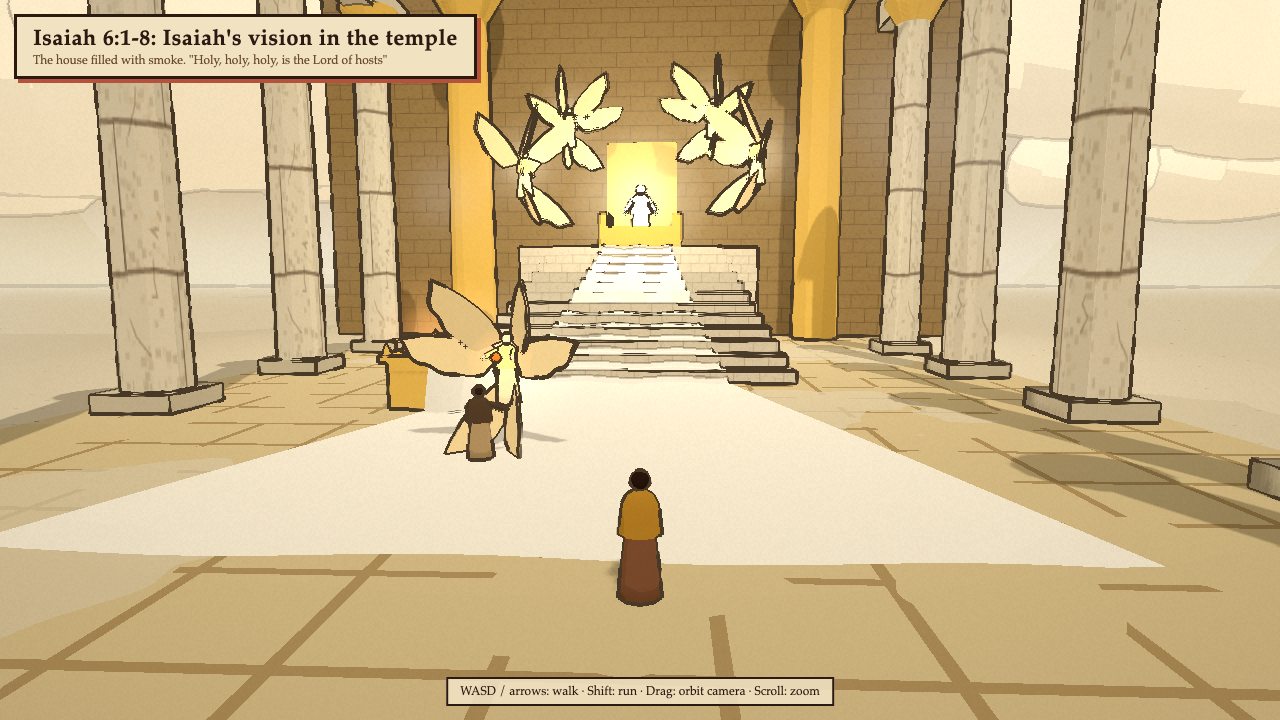
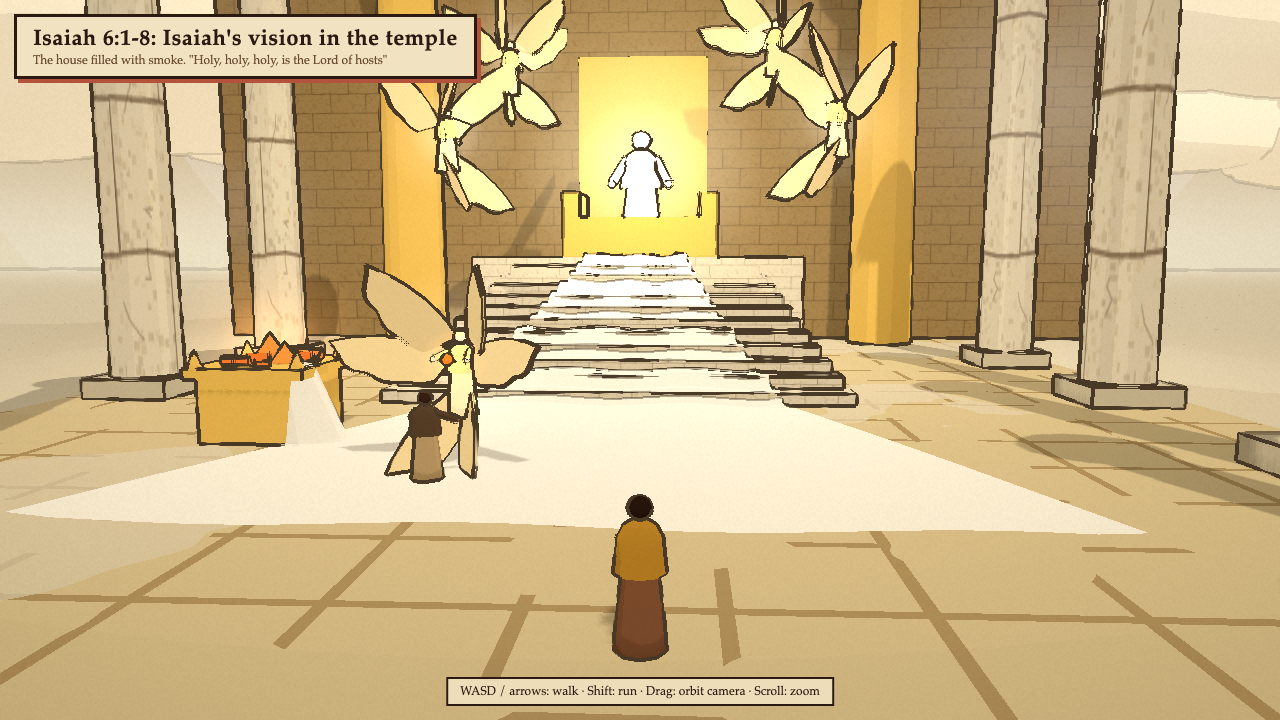
feat: polish toon scenes ot-38 to ot-44

diff --git a/styles/toon/scenes/ot-42.js b/styles/toon/scenes/ot-42.js
@@ -1,10 +1,10 @@
-// Jonah 3: Nineveh believes God. The people put on sackcloth, and the king sits in ashes before his palace.
+// Jonah 3: Nineveh believes God. The people put on sackcloth, and the king sits in ashes in the great square.
 // x is east, z is south. The palace stands at the north end of the great square, Jonah preaches on its west side.
 import * as THREE from 'three';
 import { Batch, DAY_STYLE, attach, ball, box, boxGeo, cityWall, cyl, frameAt, glow, house, makeRng, ox, palm, person, sheep } from './lib/ot-38-kit.js';
 
-const JONAH = [-9, 4];
-const KING = [0, -30.5];
+const JONAH = [-5, 3];
+const KING = [4, -9];
 const PALACE = [0, -48];
 const STONE = '#d2bc94';
 const SACK = '#5a4a3a';
@@ -98,11 +98,11 @@ function city(b, ctx) {
 
 function ashes(b, ctx) {
   const rng = makeRng(7);
-  const piles = [[KING[0] + 1.6, KING[1] + 0.8], [-3, 10], [10, -4], [16, 10], [-22, 14], [4, 16], [-4, -18], [20, -16]];
+  const piles = [[KING[0] + 1.6, KING[1] + 0.8], [-14, 9], [10, -4], [16, 10], [-22, 14], [12, 15], [-8, -16], [20, -16]];
   piles.forEach(([x, z], i) => {
     const y = ctx.terrainHeight(x, z);
-    b.add('#8a8580', ball(1.2, [x, y, z], [1.4, 0.35, 1.2], 9), { cast: false });
-    b.add('#6a6560', ball(0.6, [x + 0.3, y + 0.25, z], [1, 0.5, 1], 7), { cast: false });
+    b.add('#7a756f', ball(0.8, [x, y, z], [1.4, 0.3, 1.2], 9), { cast: false });
+    b.add('#5e5954', ball(0.45, [x + 0.3, y + 0.25, z], [1, 0.5, 1], 7), { cast: false });
     ctx.exclude({ kind: 'circle', x, z, r: 1.6 });
   });
   for (let i = 0; i < 260; i++) {
@@ -113,23 +113,29 @@ function ashes(b, ctx) {
 
 function people(b, ctx) {
   const [kx, kz] = KING;
-  const king = person(ctx, { pos: KING, face: [kx, kz + 10], kneel: true, scale: 1.05, colors: { robe: SACK, mantle: '#4a3e32', skin: '#a87650', hair: '#8a8580', sash: '#3e342a', arms: [0.3, 0.6] } });
+  const ky = ctx.terrainHeight(kx, kz);
+  b.add('#8a8580', ball(1.7, [kx, ky, kz], [1.3, 0.42, 1.3], 10), { cast: false });
+  const king = person(ctx, { pos: KING, y: ky + 0.55, face: [kx - 2, kz + 10], kneel: true, scale: 1.3, colors: { robe: SACK, mantle: '#4a3e32', skin: '#a87650', hair: '#8a8580', sash: '#3e342a', arms: [0.3, 0.6] } });
   king.rotation.x = 0.2;
-  // His robe laid aside and his crown set down beside him.
-  b.add('#6a2a6a', box(1.8, 0.1, 1.2, [kx - 2.2, ctx.terrainHeight(kx - 2.2, kz) + 0.05, kz + 0.3], [0, 0.4, 0]), { cast: false });
-  b.add('#e2b13c', box(0.9, 0.1, 0.3, [kx - 2.2, ctx.terrainHeight(kx - 2.2, kz) + 0.12, kz + 0.3], [0, 0.4, 0]), { emissive: '#4a3008' });
-  b.add('#e2b13c', cyl(0.18, 0.16, 0.3, [kx - 1.3, ctx.terrainHeight(kx - 1.3, kz) + 0.15, kz - 0.6], [0, 0, 0], 8), { emissive: '#4a3008' });
-  b.add('#8a8580', ball(1.4, [kx, ctx.terrainHeight(kx, kz), kz], [1.3, 0.2, 1.3], 10), { cast: false });
+  // The throne he arose from stands empty behind him, his robe and crown laid upon it.
+  const [tx, tz] = [kx + 0.4, kz - 2.6];
+  const ty = ctx.terrainHeight(tx, tz);
+  b.add('#e2b13c', box(1.6, 0.9, 1.3, [tx, ty + 0.45, tz]), { emissive: '#4a3008' });
+  b.add('#e2b13c', box(1.6, 2.4, 0.3, [tx, ty + 1.2, tz - 0.6]), { emissive: '#4a3008' });
+  b.add('#7a2a7a', box(1.7, 0.14, 1.4, [tx, ty + 0.96, tz + 0.05]));
+  b.add('#7a2a7a', box(1.7, 0.9, 0.12, [tx, ty + 0.5, tz + 0.72]));
+  b.add('#ffd25a', cyl(0.24, 0.2, 0.36, [tx + 0.3, ty + 1.2, tz], [0, 0, 0], 8), { emissive: '#6a4a10' });
+  ctx.addCollider({ x: tx, z: tz, hx: 0.9, hz: 0.8, rot: 0, top: ty + 2.4 });
   // Nobles kneeling about the king.
   [[-2.6, 1.6], [2.8, 1.4], [-4.2, -0.4], [4.4, -0.6]].forEach(([dx, dz], i) => person(ctx, { pos: [kx + dx, kz + dz], face: [kx, kz + 12], kneel: true, colors: { robe: i % 2 ? '#4a3e32' : SACK, mantle: '#3e342a', skin: '#9c6a45', hair: '#8a8580' } }));
 
   // Jonah on a step of stone, crying the word.
   const [jx, jz] = JONAH;
   const jy = ctx.terrainHeight(jx, jz);
-  b.add(STONE, boxGeo(3.4, 1.7, 3, [jx, jy + 0.6, jz], { uv: { su: 2 } }), { stone: true });
-  ctx.addCollider({ x: jx, z: jz, hx: 1.7, hz: 1.5, rot: 0, top: jy + 1.45, walkable: true });
+  b.add(STONE, boxGeo(3.4, 2.4, 3, [jx, jy + 0.95, jz], { uv: { su: 2 } }), { stone: true });
+  ctx.addCollider({ x: jx, z: jz, hx: 1.7, hz: 1.5, rot: 0, top: jy + 2.15, walkable: true });
   ctx.exclude({ kind: 'circle', x: jx, z: jz, r: 2.6 });
-  person(ctx, { pos: JONAH, y: jy + 1.45, face: [4, 14], scale: 1.08, colors: { robe: '#b5823a', mantle: '#5e4632', skin: '#a8724a', hair: '#2b1a12', sash: '#d9c7a3', arms: [0.5, 1.3] } });
+  person(ctx, { pos: JONAH, y: jy + 2.15, face: [4, 16], scale: 1.18, colors: { robe: '#b5823a', mantle: '#5e4632', skin: '#a8724a', hair: '#2b1a12', sash: '#d9c7a3', arms: [0.5, 1.3] } });
 
   // Beasts too are covered in sackcloth.
   const rng = makeRng(77);
@@ -191,13 +197,14 @@ export default {
     groups: [
       { center: JONAH, radius: [3, 15], count: 200, kneel: 0.65, children: 0.15, facingJitter: 0.5, lean: 0.3 },
       { shape: 'rect', center: [8, -2], size: [24, 40], count: 260, kneel: 0.7, children: 0.15, facingJitter: 1.2, lean: 0.35, facing: [0, -40] },
-      { shape: 'rect', center: [0, -24], size: [30, 8], count: 70, kneel: 0.8, facing: KING, facingJitter: 0.4, lean: 0.3 },
+      { shape: 'rect', center: [4, -19], size: [26, 8], count: 70, kneel: 0.8, facing: KING, facingJitter: 0.4, lean: 0.3 },
       { shape: 'rect', center: [-20, 18], size: [16, 16], count: 80, kneel: 0.5, children: 0.2, facingJitter: 1, lean: 0.2 },
     ],
   },
   player: {
-    start: [1, 17],
-    lookAt: [-5, -30],
+    start: [1, 6],
+    lookAt: [0, -12],
+    fov: 48,
     colors: { robe: '#b5823a', mantle: '#4f7f80', skin: '#a8724a', hair: '#2b1a12', sash: '#d9c7a3' },
   },
 };

diff --git a/styles/toon/scenes/ot-43.js b/styles/toon/scenes/ot-43.js
@@ -4,11 +4,11 @@ import * as THREE from 'three';
 import { Batch, DAY_STYLE, attach, boxGeo, box, cyl, flames, glow, makeRng, person } from './lib/ot-38-kit.js';
 import { makeFigure } from '../engine/people.js';
 
-const THRONE = [0, -32];
-const STEPS = { n: 12, rise: 0.5, run: 1.1, width: 14 };
+const THRONE = [0, -24];
+const STEPS = { n: 12, rise: 0.36, run: 0.95, width: 14 };
 const TOP = STEPS.n * STEPS.rise;
-const ALTAR = [-6, -11];
-const ISAIAH = [-2.6, -4];
+const ALTAR = [-8, -5];
+const ISAIAH = [-3, -1];
 const GOLD = '#e8c060';
 const GOLD_EM = '#6a4a10';
 const WHITE = '#fbf7ee';
@@ -27,10 +27,10 @@ function temple(b, ctx) {
   ctx.addCollider({ x: tx, z: tz - 1, hx: STEPS.width / 2, hz: 4, rot: 0, top: TOP, walkable: true });
 
   // The throne itself.
-  b.add(GOLD, box(4.6, 1.4, 3, [tx, TOP + 0.7, tz - 1.5]), { emissive: GOLD_EM });
-  b.add(GOLD, box(4.6, 7, 0.6, [tx, TOP + 3.5, tz - 3]), { emissive: GOLD_EM });
-  for (const s of [-1, 1]) b.add(GOLD, box(0.6, 2.2, 3, [tx + s * 2.3, TOP + 1.1, tz - 1.5]), { emissive: GOLD_EM });
-  ctx.addCollider({ x: tx, z: tz - 1.8, hx: 2.4, hz: 1.8, rot: 0, top: TOP + 6 });
+  b.add(GOLD, box(6.2, 1.8, 3.6, [tx, TOP + 0.9, tz - 1.6]), { emissive: GOLD_EM });
+  b.add(GOLD, box(6.2, 9.5, 0.7, [tx, TOP + 4.75, tz - 3.3]), { emissive: GOLD_EM });
+  for (const s of [-1, 1]) b.add(GOLD, box(0.8, 2.9, 3.6, [tx + s * 3.1, TOP + 1.45, tz - 1.6]), { emissive: GOLD_EM });
+  ctx.addCollider({ x: tx, z: tz - 1.8, hx: 3.2, hz: 2, rot: 0, top: TOP + 9 });
 
   // Great posts of the door and the colonnade of the house.
   const back = tz - 8;
@@ -87,11 +87,11 @@ function train(ctx) {
 function lord(ctx) {
   const [tx, tz] = THRONE;
   const fig = makeFigure({ robe: WHITE, mantle: '#f6f0e2', skin: WHITE, hair: WHITE, sash: '#f3e6c4', arms: [0.35, 0.7] }, ctx.kit, { glow: 0.85 });
-  fig.scale.set(2.4, 2.2, 2.4);
-  fig.position.set(tx, TOP + 0.3, tz - 1.2);
+  fig.scale.set(3.3, 3.1, 3.3);
+  fig.position.set(tx, TOP + 0.4, tz - 1.2);
   ctx.scene.add(fig);
-  glow(ctx, { pos: [tx, TOP + 3.2, tz - 0.5], size: 9, color: '#fff6dc', opacity: 0.55, pulse: 0.03 });
-  glow(ctx, { pos: [tx, TOP + 4, tz - 1], size: 24, color: '#ffe8b0', opacity: 0.22, pulse: 0.02 });
+  glow(ctx, { pos: [tx, TOP + 4.2, tz - 0.5], size: 11, color: '#fff6dc', opacity: 0.5, pulse: 0.03 });
+  glow(ctx, { pos: [tx, TOP + 5, tz - 1], size: 28, color: '#ffe8b0', opacity: 0.2, pulse: 0.02 });
   const l = new THREE.PointLight('#fff4dc', 25, 40, 1.2);
   l.position.set(tx, TOP + 5, tz + 4);
   ctx.scene.add(l);
@@ -172,10 +172,10 @@ function custom(ctx) {
   train(ctx);
   lord(ctx);
   const [tx, tz] = THRONE;
-  seraph(ctx, { pos: [tx - 7, TOP + 3.2, tz + 1], face: [tx + 2, tz + 6], scale: 1.6 });
-  seraph(ctx, { pos: [tx + 7, TOP + 3.6, tz + 1.5], face: [tx - 2, tz + 6], scale: 1.6 });
-  seraph(ctx, { pos: [tx - 4.5, TOP + 6.6, tz - 1], face: [tx + 1, tz + 8], scale: 1.4 });
-  seraph(ctx, { pos: [tx + 4.5, TOP + 7, tz - 0.5], face: [tx - 1, tz + 8], scale: 1.4 });
+  seraph(ctx, { pos: [tx - 8.5, TOP + 3.6, tz + 1], face: [tx + 2, tz + 6], scale: 1.6 });
+  seraph(ctx, { pos: [tx + 8.5, TOP + 4, tz + 1.5], face: [tx - 2, tz + 6], scale: 1.6 });
+  seraph(ctx, { pos: [tx - 6, TOP + 7.6, tz - 1], face: [tx + 1, tz + 8], scale: 1.4 });
+  seraph(ctx, { pos: [tx + 6, TOP + 8, tz - 0.5], face: [tx - 1, tz + 8], scale: 1.4 });
   seraph(ctx, { pos: [ISAIAH[0] + 0.3, 0.9, ISAIAH[1] - 1.6], face: [ISAIAH[0], ISAIAH[1]], scale: 1.05, coal: true });
   person(ctx, { pos: ISAIAH, face: [ISAIAH[0] + 0.3, ISAIAH[1] - 2], colors: { robe: '#c8a97a', mantle: '#5e4632', skin: '#a8724a', hair: '#3a2418', sash: '#8c3a3a', arms: [0.55, 1.1] } });
   haze(ctx);
@@ -197,8 +197,9 @@ export default {
   custom,
   clouds: { layers: [{ count: 40, distance: [260, 600], height: [30, 140], size: [40, 80], color: '#fbf6ea', shade: '#c8b89a', drift: 0.003 }] },
   player: {
-    start: [1.5, 3],
-    lookAt: [0, -32],
+    start: [1.5, 6],
+    lookAt: [0, -24],
+    fov: 46,
     colors: { robe: '#8c5a3c', mantle: '#c8912e', skin: '#a8724a', hair: '#2b1a12', sash: '#4f7f80' },
   },
 };

diff --git a/styles/toon/scenes/ot-40.js b/styles/toon/scenes/ot-40.js
@@ -5,8 +5,8 @@ import { Batch, DAY_STYLE, PALETTE, addSun, attach, ball, box, boxGeo, cyl, fram
 
 const PIT = { x0: -12, x1: 12, z0: -30, z1: -6 };
 const RIM = { x0: -22, x1: 22, z0: -40, z1: 4, h: 3.6 };
-const DANIEL = [-1, -23];
-const ANGEL = [1.4, -24.2];
+const DANIEL = [-1, -17.5];
+const ANGEL = [1.4, -18.7];
 const KING = [3, -4.8];
 const STONE = '#c7ae86';
 const STONE_DARK = '#a88e68';
@@ -90,12 +90,12 @@ function lions(b, ctx) {
   const toward = (x, z, tx, tz) => Math.atan2(tx - x, tz - z);
   const [dx, dz] = DANIEL;
   const list = [
-    { pos: [-5.5, -24], face: [dx, dz], mane: true },
+    { pos: [-5.5, -21.5], face: [dx, dz], mane: true },
     { pos: [5, -26.5], face: [dx, dz], sleeping: true, mane: false },
-    { pos: [-5, -17], face: [dx, dz], mane: false },
-    { pos: [4.2, -18.5], face: [dx + 2, dz + 3], sleeping: true, mane: true },
+    { pos: [-5.5, -14.5], face: [dx, dz], mane: false },
+    { pos: [5.6, -17], face: [dx + 2, dz + 3], sleeping: true, mane: true },
     { pos: [-2, -27.6], rot: 1.6, sleeping: true, mane: false },
-    { pos: [1.5, -13], face: [-6, -11], mane: true, standing: true },
+    { pos: [2.5, -11], face: [-6, -9], mane: true, standing: true },
     { pos: [-8, -11], face: [dx, dz], sleeping: true, mane: false },
     { pos: [8.5, -12], face: [dx, dz], mane: false },
     { pos: [-9, -26], face: [dx, dz], sleeping: true, mane: true },
@@ -105,8 +105,8 @@ function lions(b, ctx) {
 
 function figures(ctx) {
   const [dx, dz] = DANIEL;
-  person(ctx, { pos: DANIEL, face: [KING[0], KING[1] + 4], scale: 1.05, colors: { robe: '#e6d8b8', mantle: '#4f6fa0', skin: '#a8724a', hair: '#cfc6b4', sash: '#c8912e', arms: [0.55, 0.9] } });
-  person(ctx, { pos: ANGEL, face: [0, 0], scale: 1.15, glow: 0.6, colors: { robe: '#fbf7ee', mantle: '#f3eddf', skin: '#fbf3e4', hair: '#fbf7ee', sash: '#efe3c2', arms: [0.5, 0.4] } });
+  person(ctx, { pos: DANIEL, face: [KING[0], KING[1] + 4], scale: 1.2, colors: { robe: '#e6d8b8', mantle: '#4f6fa0', skin: '#a8724a', hair: '#cfc6b4', sash: '#c8912e', arms: [0.55, 0.9] } });
+  person(ctx, { pos: ANGEL, face: [0, 0], scale: 1.32, glow: 0.6, colors: { robe: '#fbf7ee', mantle: '#f3eddf', skin: '#fbf3e4', hair: '#fbf7ee', sash: '#efe3c2', arms: [0.5, 0.4] } });
   glow(ctx, { pos: [ANGEL[0], 1.4, ANGEL[1]], size: 7, color: '#fff3d0', opacity: 0.85 });
   glow(ctx, { pos: [dx + 0.6, 1, dz - 0.5], size: 13, color: '#ffe8b0', opacity: 0.3 });
   const l = new THREE.PointLight('#fff0d0', 26, 18, 1.3);
@@ -194,8 +194,9 @@ export default {
     groups: [{ center: [0, -18], radius: [30, 44], angle: [-1.2, 1.2], count: 40, facingJitter: 0.6 }],
   },
   player: {
-    start: [-2, -3.6],
-    lookAt: [DANIEL[0], DANIEL[1]],
+    start: [-6.5, -3.4],
+    lookAt: [DANIEL[0] + 6, DANIEL[1]],
+    fov: 48,
     colors: { robe: '#8c5a3c', mantle: '#c8912e', skin: '#a8724a', hair: '#2b1a12', sash: '#2f5f9a' },
   },
 };

diff --git a/styles/toon/scenes/ot-44.js b/styles/toon/scenes/ot-44.js
@@ -5,7 +5,7 @@ import { Batch, DAY_STYLE, ball, glow, lying, makeRng, person } from './lib/ot-3
 import { FX_LAYER } from '../engine/renderer.js';
 import { glowTexture } from '../engine/textures.js';
 
-const EZEKIEL = [-3, 7];
+const EZEKIEL = [-4.5, -3];
 const ARMY = [0, -44];
 const BONE = '#f2ead6';
 const BONE_GLOW = '#5a5244';
@@ -130,7 +130,7 @@ function winds(ctx) {
   const pos = new Float32Array(n * 3);
   const g = new THREE.BufferGeometry();
   g.setAttribute('position', new THREE.BufferAttribute(pos, 3));
-  const pts = new THREE.Points(g, new THREE.PointsMaterial({ size: 2.2, map: glowTexture(), color: '#fff2cc', transparent: true, depthWrite: false, blending: THREE.AdditiveBlending, opacity: 0.8, fog: false }));
+  const pts = new THREE.Points(g, new THREE.PointsMaterial({ size: 1.8, map: glowTexture(), color: '#fff2cc', transparent: true, depthWrite: false, blending: THREE.AdditiveBlending, opacity: 0.6, fog: false }));
   pts.layers.set(FX_LAYER);
   pts.frustumCulled = false;
   ctx.scene.add(pts);
@@ -215,8 +215,9 @@ export default {
     ],
   },
   player: {
-    start: [2, 6],
+    start: [1, 0],
     lookAt: [0, -50],
+    fov: 50,
     colors: { robe: '#8c5a3c', mantle: '#c8912e', skin: '#a8724a', hair: '#2b1a12', sash: '#4f7f80' },
   },
 };

diff --git a/styles/toon/scenes/ot-41.js b/styles/toon/scenes/ot-41.js
@@ -229,12 +229,13 @@ function crew(ctx) {
   person(ctx, { pos: [1.6, 5.4], y, face: [3, 9], colors: { ...sailors[2], arms: [0.5, 0.8] } });
   person(ctx, { pos: [-1.2, -6.8], y, face: [0, -2], colors: { ...sailors[1], arms: [0.5, 1.1] } });
 
-  const jonah = makeFigure({ robe: '#b5823a', mantle: '#5e4632', skin: '#a8724a', hair: '#2b1a12', sash: '#d9c7a3', arms: [2.4, 0.2] }, ctx.kit);
+  const jonah = makeFigure({ robe: '#d49a3a', mantle: '#5e4632', skin: '#a8724a', hair: '#2b1a12', sash: '#d9c7a3', arms: [2.4, 0.2] }, ctx.kit);
   jonah.position.set(JONAH[0], DECK, JONAH[1]);
   jonah.rotation.set(0.2, -Math.PI / 2, -2.1, 'YXZ');
+  jonah.scale.setScalar(1.12);
   ctx.scene.add(jonah);
   ctx.onFrame((t) => {
-    jonah.position.y = DECK + 1.1 + Math.sin(t * 1.2) * 0.12;
+    jonah.position.y = DECK + 1.5 + Math.sin(t * 1.2) * 0.12;
   });
 }
 
@@ -295,8 +296,9 @@ export default {
     ],
   },
   player: {
-    start: [-1.4, 2.5],
-    lookAt: [9, -3],
+    start: [-0.6, 3.4],
+    lookAt: [9, -2],
+    fov: 46,
     colors: { robe: '#6b5a4a', mantle: '#8c5a3c', skin: '#a8724a', hair: '#2b1a12', sash: '#b5523b' },
   },
 };

diff --git a/styles/toon/scenes/ot-38.js b/styles/toon/scenes/ot-38.js
@@ -93,8 +93,9 @@ function walkers(ctx, floorY) {
     { robe: '#5a7a4a', mantle: '#8c5a3c', skin: '#8a5a3b', hair: '#d9c7a3', sash: '#e8c060', arms: [0.3, 0.3] },
   ];
   const figs = men.map((c) => makeFigure(c, ctx.kit));
+  for (const g of figs) g.scale.setScalar(1.15);
   const fourth = makeFigure({ robe: '#fbf7ee', mantle: '#f3eddf', skin: '#fbf3e4', hair: '#fbf7ee', sash: '#efe3c2', arms: [0.45, 0.5] }, ctx.kit, { glow: 0.55 });
-  fourth.scale.setScalar(1.12);
+  fourth.scale.setScalar(1.3);
   figs.push(fourth);
   for (const g of figs) ctx.scene.add(g);
   const halo = glow(ctx, { pos: [0, 0, 0], size: 6, color: '#fff4d6', opacity: 0.9, pulse: 0.05 });
@@ -229,8 +230,9 @@ export default {
     ],
   },
   player: {
-    start: [0, 1],
-    lookAt: [0, -22],
+    start: [0, -3],
+    lookAt: [0, -21],
+    fov: 48,
     colors: { robe: '#8c5a3c', mantle: '#c8912e', skin: '#a8724a', hair: '#2b1a12', sash: '#2f5f9a' },
   },
 };

diff --git a/styles/toon/scenes/ot-39.js b/styles/toon/scenes/ot-39.js
@@ -254,8 +254,9 @@ export default {
     ],
   },
   player: {
-    start: [0, 6],
-    lookAt: [-4, -31],
+    start: [-2.2, -7],
+    lookAt: [-0.5, -31],
+    fov: 50,
     colors: { robe: '#8c5a3c', mantle: '#c8912e', skin: '#a8724a', hair: '#2b1a12', sash: '#2f5f9a' },
   },
 };
